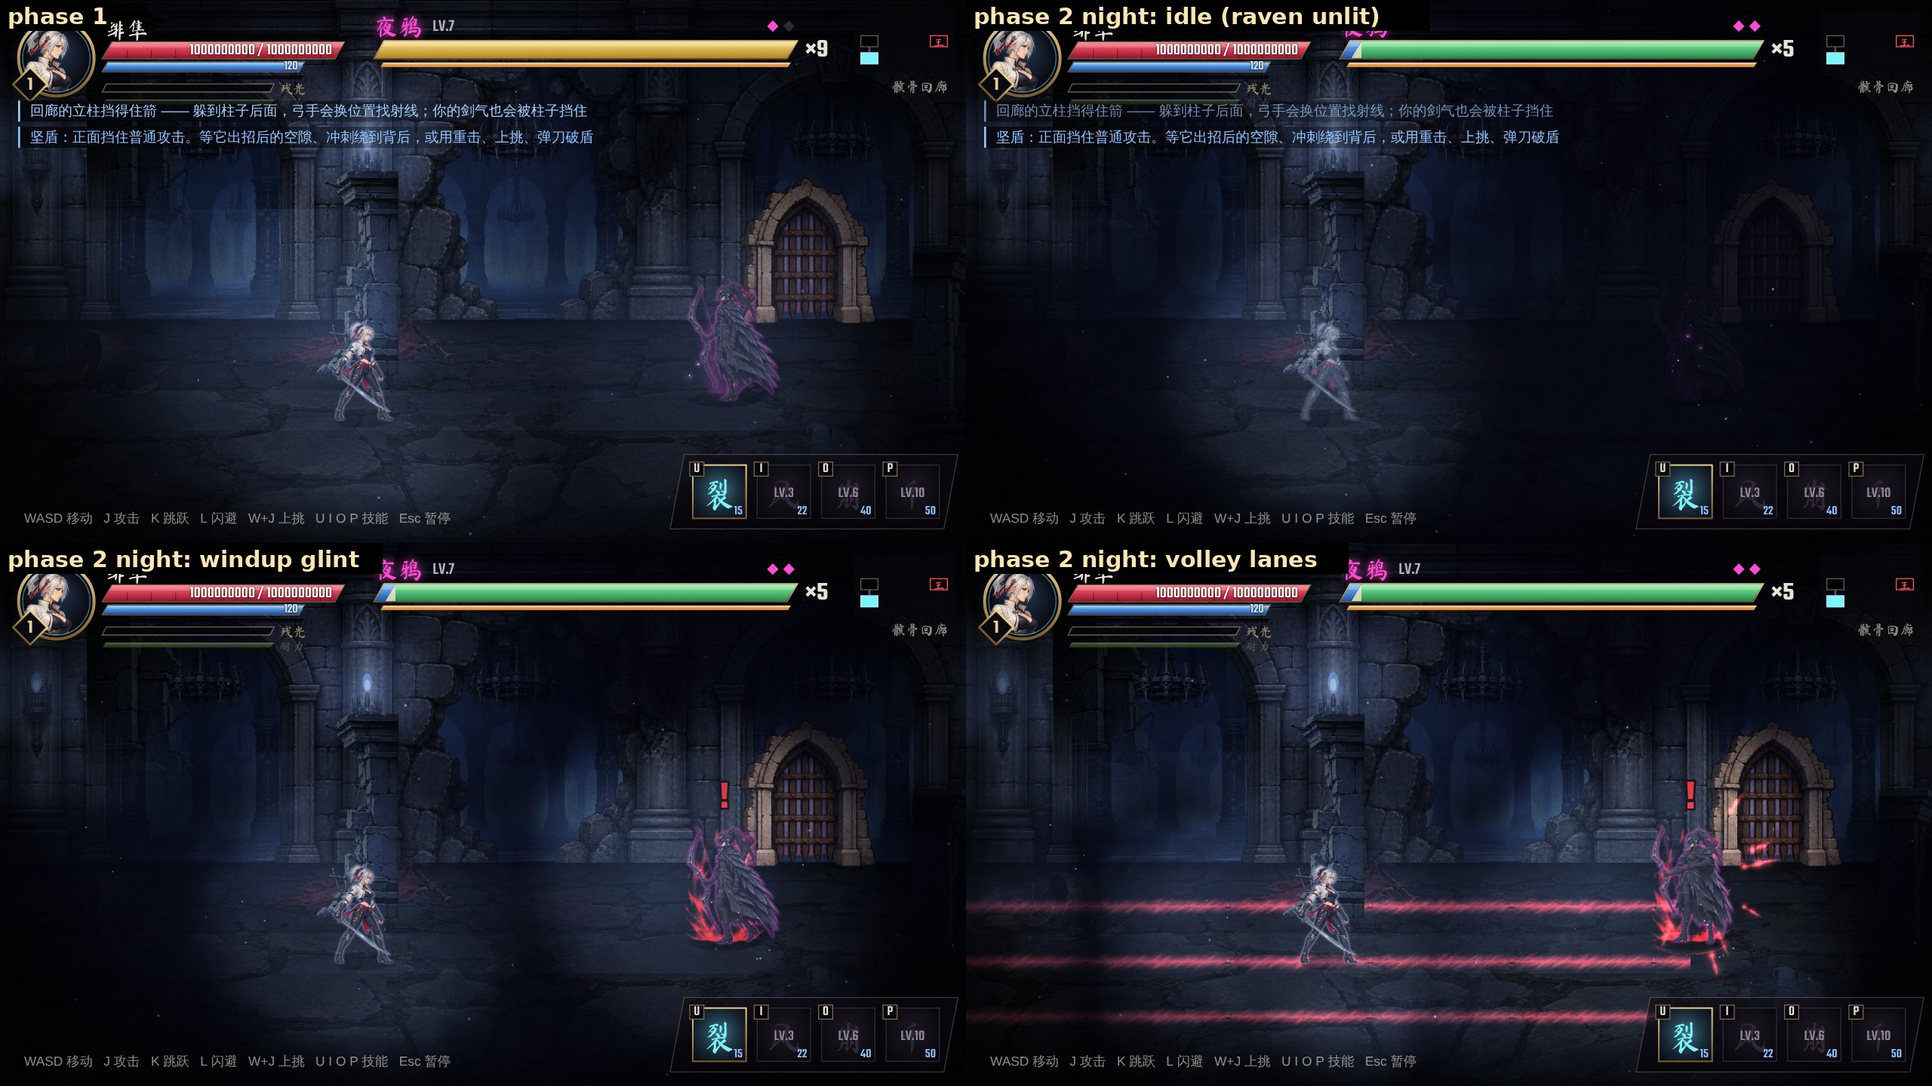
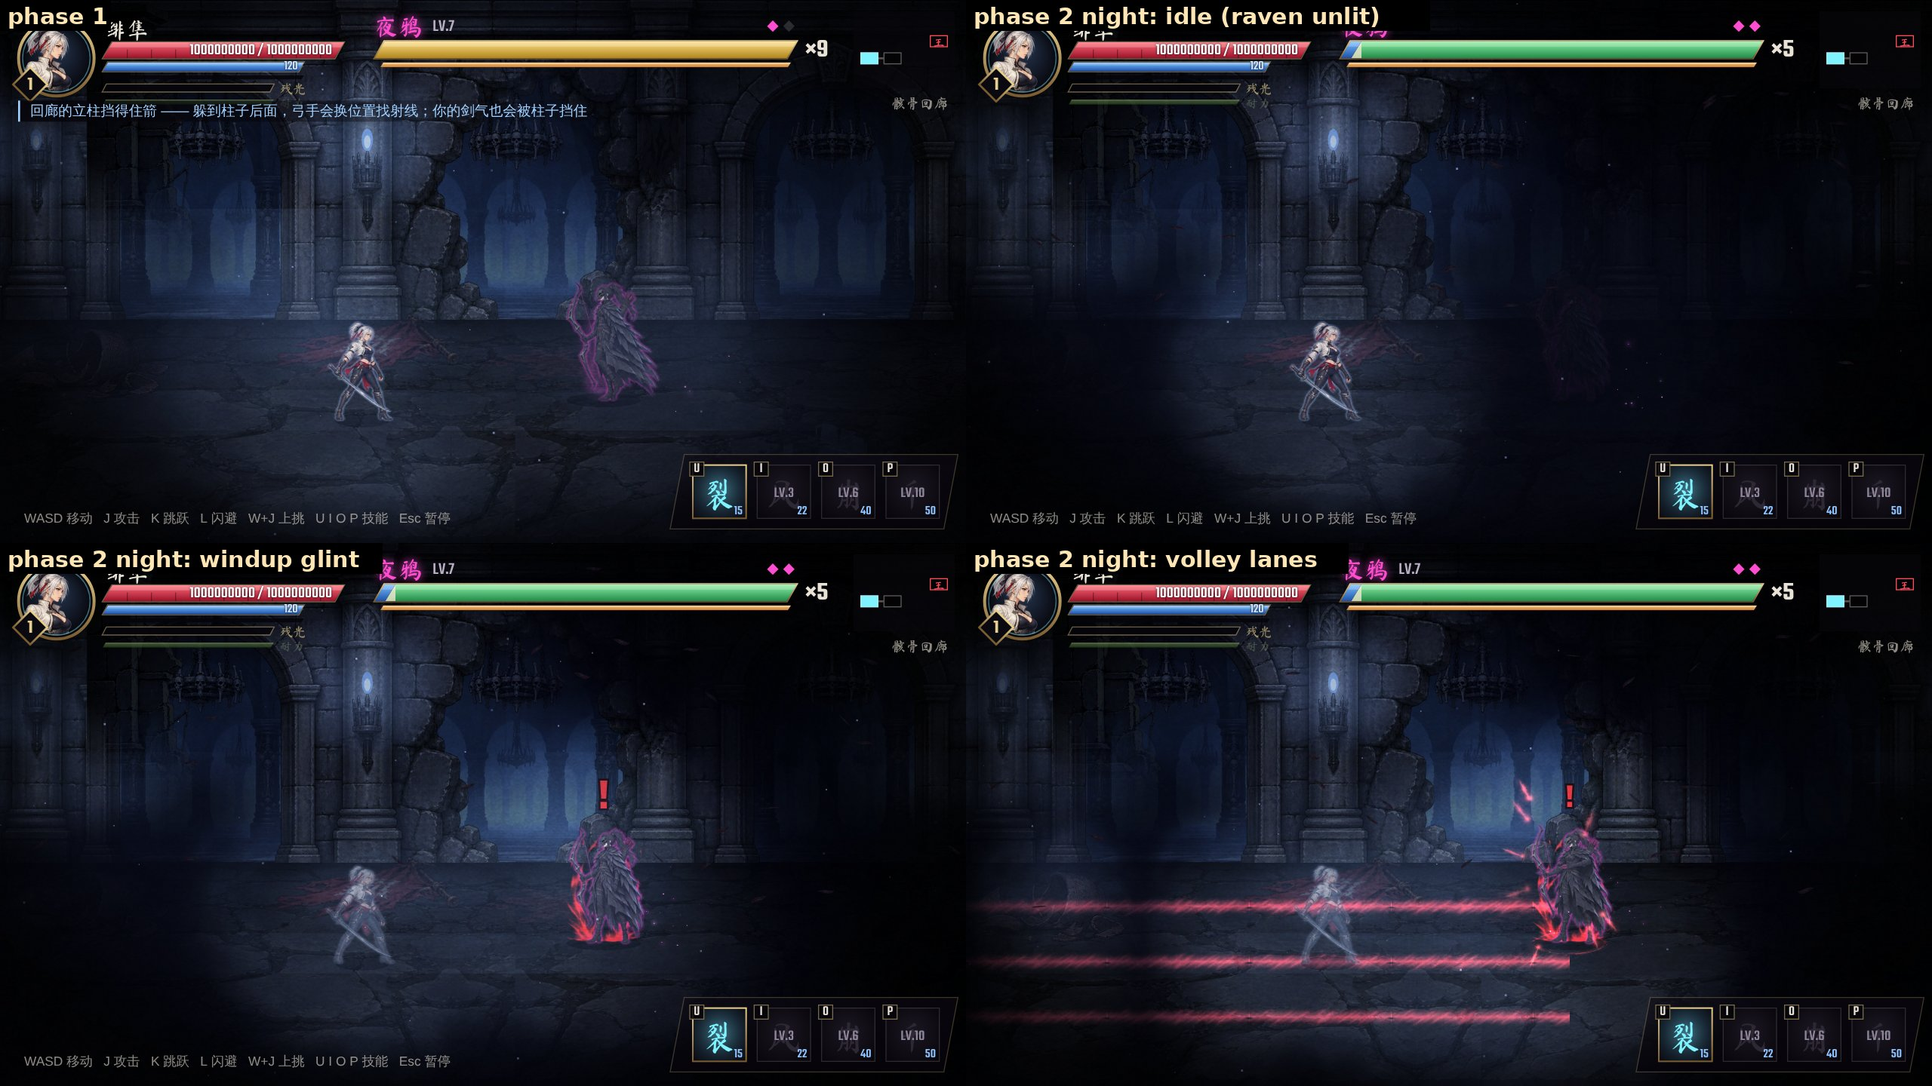
H-1（Codex 交付，终审通过）：build_fx.py --boss raven（校验画布 / 帧数、贴图和序列帧同一图集）、fx_art.js 按首领载入夜鸦包；打出真包 fx_boss_raven；夜鸦夜色测试补素材包的载入 / 释放、夜幕 / 黑羽；截图更新
Claude-Session: https://claude.ai/code/session_016hifdkBdBtKZpyLgvXjhcu

diff --git a/src/fx_art.js b/src/fx_art.js
@@ -3,7 +3,7 @@
 // 每套图集载入后切成一块块小画布（图集本身随后丢掉，内存不会翻倍）。每块记着：
 //   cx, cy —— 锚点在这块画布里的位置（素材裁掉了透明边，锚点按原画布换算过来）
 //   sc     —— 图集像素相对交付尺寸的比例（桌面贴图 1、手机 0.5；序列帧桌面 0.5、手机 0.25）
-// 贴图（fx_tex）和主角 / 通用序列帧（fx_hero）一直载入；首领的两套只在自己那一关载入、离开就释放。
+// 贴图（fx_tex）和主角 / 通用序列帧（fx_hero）一直载入；首领的特效只在自己那一关载入、离开就释放。
 // 素材没载好时：烟、碎片、地裂、冲击环、星芒照常用程序生成的占位贴图；光照包里的东西（光晕、火花、光照、暗角……）不画。
 import { afterBoot } from './boot.js';
 import { MOBILE } from './sprite.js';
@@ -32,18 +32,18 @@ class FxPack {
           im.src = `${DIR}${this.name}${v}.webp`;
         });
         if (!atlas || this.released) return;
-        const cut = (key) => {
+        const cut = (key, sc = meta.scale) => {
           const [x, y] = meta.pos[key], [w, h] = meta.dims[key];
           const c = document.createElement('canvas');
           c.width = w;
           c.height = h;
           c.getContext('2d').drawImage(atlas, x, y, w, h, 0, 0, w, h);
-          c.sc = meta.scale;
+          c.sc = sc;
           return c;
         };
         const items = {};
         for (const [id, t] of Object.entries(meta.tex || {})) {
-          const c = cut(id);
+          const c = cut(id, meta.texScale ?? meta.scale);
           c.cx = t.anchor[0] * t.full[0] - t.off[0];
           c.cy = t.anchor[1] * t.full[1] - t.off[1];
           c.add = t.blend === 'add';
@@ -87,6 +87,7 @@ export const FX_ART = {
   hero: new FxPack('fx_hero'),
   bone: new FxPack('fx_bone'),
   warden: new FxPack('fx_warden'),
+  raven: new FxPack('fx_boss_raven'),
   // 刀光包 fx_blade_v1（docs/ART_FX_BLADE_V1.md）：条带贴图（拖尾、新月刀光）+ 重画的五组刀光序列帧和剑气。一直载入
   bladeTex: new FxPack('fx_blade_tex'),
   blade: new FxPack('fx_blade'),
@@ -113,12 +114,20 @@ export const enemyFb = (id) => (FX_ART.enemy.ready && FX_ART.enemy.items[id]) ||
 afterBoot(() => { FX_ART.tex.load(); FX_ART.hero.load(); FX_ART.bladeTex.load(); FX_ART.blade.load(); FX_ART.enemyTex.load(); FX_ART.enemy.load(); }); // 大地图和主角先载（见 boot.js）
 
 // 首领专属特效：只载入这一关首领的那套，释放其他的（和首领图集一样，见 enemy_sprites.js 的 prepareBossSprites）
-const BOSS_FX = { boneLord: 'bone', warden: 'warden' };
+const BOSS_FX = { boneLord: 'bone', nightRaven: 'raven', warden: 'warden' };
 export function prepareBossFx(key) {
   for (const [k, name] of Object.entries(BOSS_FX)) {
     if (k === key) FX_ART[name].load();
     else if (FX_ART[name].ready || FX_ART[name].loading) FX_ART[name].release();
   }
+}
+
+// 首领特效包的一张贴图（混合图集里的序列帧用 flipbook 取）
+export function bossTex(packName, id) {
+  const pack = FX_ART[packName];
+  if (!pack?.ready || !Object.hasOwn(pack.items, id)) return null;
+  const item = pack.items[id];
+  return item.frames ? null : item;
 }
 
 // 敌人各自的特效：只载入这一关出现的敌人那几套，释放其他的（和 enemy_sprites.js 的 prepareEnemySprites 同一时机）。types 用敌人类型名
@@ -135,6 +144,6 @@ export const enemyTypeFb = (rig, id) => (FX_ART.enemyType[rig]?.ready && FX_ART.
 // 取一组序列帧（没载好返回 null）
 export function flipbook(id) {
   // 刀光包排在最前：它的五组刀光覆盖 fx_hero 里的旧组（fx_hero 打包时已经不含这几组）
-  for (const p of [FX_ART.blade, FX_ART.hero, FX_ART.bone, FX_ART.warden, FX_ART.enemy, ...Object.values(FX_ART.enemyType)]) if (p.ready && p.items[id]) return p.items[id];
+  for (const p of [FX_ART.blade, FX_ART.hero, FX_ART.bone, FX_ART.warden, FX_ART.raven, FX_ART.enemy, ...Object.values(FX_ART.enemyType)]) if (p.ready && p.items[id]?.frames) return p.items[id];
   return null;
 }

diff --git a/tests/ravennighttest.js b/tests/ravennighttest.js
@@ -42,10 +42,20 @@ let bad = 0; const ok = (c, m) => { console.log((c ? 'ok   ' : 'FAIL ') + m); if
     g.hazards = [];
     // 夜鸦死了（或回到第一阶段）：夜色退去
     bo.hp = 0; bo.setState('dying'); step(RN.NIGHT.ramp + 5); out.after = +(bo.night ?? 0).toFixed(2); out.ravenAfter = !!RN.nightRaven(g);
-    // 素材层：夜鸦素材包没载时不画（不出错）
-    const c = document.createElement('canvas').getContext('2d'); bo.night = 1; out.veilNoPack = RN.drawVeil(c, bo, 100, 100) === false; bo.night = 0;
-    // 渲染一帧不出错
+    // 素材层（fx_boss_raven，H-1）：第 2 关载入 → 夜幕画得出来、夜里飘黑羽；回第 1 关释放 → 不画、不出错
+    const { FX_ART } = await import('./src/fx_art.js');
+    for (let i = 0; i < 80 && !FX_ART.raven.ready; i++) await new Promise((r) => setTimeout(r, 100));
+    out.packLoaded = FX_ART.raven.ready && !!FX_ART.raven.items.night_veil && !!FX_ART.raven.items.feather_drift?.frames;
+    const c = document.createElement('canvas').getContext('2d'); bo.night = 1; bo.alive !== undefined;
+    out.veilDraws = RN.drawVeil(c, bo, 100, 100) === true;
+    bo.hp = bo.maxHp * 0.4; bo.setState('idle'); bo.night = 1; bo.drift = []; for (let i = 0; i < 60; i++) { RN.updateNight(bo, g); g.ticks++; } out.drift = bo.drift.length;
+    out.driftDraws = RN.drawDrift(c, bo, 0) === true;
+    bo.night = 0;
+    // 渲染一帧不出错（素材包载好、夜色满）
     bo.hp = bo.maxHp * 0.4; bo.setState('idle'); bo.night = 1; g.render(); out.render = true;
+    // 回第 1 关：夜鸦素材包释放
+    g.story.clear(); g.startStage(0, 0, false); g.story.clear(); out.released = !FX_ART.raven.ready;
+    const bo2 = { night: 1, drift: [{ x: 0, y: 0, t: 5, phase: 0, flip: 1 }] }; out.veilNoPack = RN.drawVeil(c, bo2, 100, 100) === false && RN.drawDrift(c, bo2, 0) === false;
     return out;
   });
   console.log(JSON.stringify(r));
@@ -57,7 +67,8 @@ let bad = 0; const ok = (c, m) => { console.log((c ? 'ok   ' : 'FAIL ') + m); if
   ok(r.splitParity, '鸦影分身：真身和两个分身的光完全一样（不泄露真身）');
   ok(r.laneLights >= 3, `地面光带夜里沿线补光（${r.laneLights} 盏）`);
   ok(r.after === 0 && !r.ravenAfter, '夜鸦死了：夜色退去');
-  ok(r.veilNoPack && r.render, '夜鸦素材包没载：夜幕层不画，渲染不出错');
+  ok(r.packLoaded && r.veilDraws && r.drift > 0 && r.driftDraws && r.render, `夜鸦素材包载入：夜幕画出来、夜里飘黑羽（${r.drift} 片），渲染不出错`);
+  ok(r.released && r.veilNoPack, '回第 1 关：夜鸦素材包释放，夜幕 / 黑羽不画、不出错');
   ok(!errs.length, 'PAGE ERRORS ' + (errs.join(' | ') || 'none'));
   console.log(bad ? `RAVENNIGHTTEST FAIL ${bad}` : 'RAVENNIGHTTEST ok');
   await b.close();

diff --git a/tools/build_fx.py b/tools/build_fx.py
@@ -2,6 +2,7 @@
 
 python3 -I tools/build_fx.py <fx_textures_v1 目录> <fx_hero_v1 目录> <fx_boss_v1 目录> [fx_blade_v1 目录] [fx_light_v1 目录]
 python3 -I tools/build_fx.py --enemy <fx_enemy_v1_common 目录> [fx_enemy_v1_types 目录]   （只打敌人特效包，不动别的图集）
+python3 -I tools/build_fx.py --boss raven <fx_boss_raven_v1 目录>   （只打夜鸦特效包，不动别的图集）
 
 输出到 assets/fx/（每套两份：桌面 <名字>.webp/json，手机 <名字>_m.webp/json）：
   fx_tex     FX-1 单张贴图。桌面原尺寸，手机 50%，裁掉透明边（记下原画布尺寸和偏移）。碎片图按 docs/chip_regions.json 切成 16 块单独的碎片
@@ -17,14 +18,15 @@ python3 -I tools/build_fx.py --enemy <fx_enemy_v1_common 目录> [fx_enemy_v1_ty
   fx_enemy_<敌人>  敌人特效包第 2 批 fx_enemy_v1_types：五种杂兵各自的预警 / 出招 / 命中 / 死亡序列帧，每种敌人一套
              （grunt、brute、archer、priest、wing），按关卡里出现的敌人载入。第 2 批唯一的贴图 ember_trail 并进 fx_enemy_tex（一直载入）
              第 2 批的 zip 多一层顶层目录 fx_enemy_v1_types/，传那一层；fx.json 只列了单帧，没写总图路径，所以直接用单帧（不读 sheets/）
+  fx_boss_raven  夜鸦专属贴图与序列帧共用图集，只在第 2 关载入；night_veil 保留整张画布
 序列帧：桌面存交付尺寸的 50%、手机 25%（docs/ART_FX.md 第二节）；每帧裁掉透明边再打包，记下裁切偏移，锚点不变。
 JSON 里的坐标都是「图集像素」：pos 每块的左上角，dims 每块的宽高；scale 是图集像素相对交付尺寸的比例，引擎用它换算成游戏里的大小。
 """
 import json, os, sys
+from pathlib import Path
 import numpy as np
 from PIL import Image
 
-TEX, HERO, BOSS = sys.argv[1:4] if sys.argv[1] != "--enemy" else (None,) * 3
 # 敌人特效的序列帧：地面预警圈在游戏里画得比交付尺寸的一半大（rx 115 → 宽约 240 逻辑像素），按 50% 存会被放大发糊，
 # 所以桌面存 60%、手机 30%（只多约 40% 像素）
 ENEMY_FB_SCALE = (0.6, 0.3)
@@ -35,8 +37,6 @@ ENEMY_TYPES = {
     "priest": ["lantern_flare", "rune_shatter", "candle_smoke"],
     "wing": ["ember_crack", "ember_pop", "ash_fall"],
 }
-BLADE = sys.argv[4] if len(sys.argv) > 4 else None
-LIGHT = sys.argv[5] if len(sys.argv) > 5 else None
 OUT = os.path.join(os.path.dirname(__file__), "..", "assets", "fx")
 os.makedirs(OUT, exist_ok=True)
 GROUPS = {"fx_hero": None, "fx_bone": ["bone_spikes", "bone_rend"], "fx_warden": ["soul_fire", "summon_circle"]}
@@ -79,55 +79,134 @@ def save_atlas(name, items, width, meta):
     print(f"{name}: {width}×{h}，解码 {width * h * 4 / 2**20:.1f}MB，文件 {kb:.0f}KB，{len(items)} 块")
 
 
+def collect_textures(root, m, sc, keep_full=(), opaque=()):
+    """root 可以是目录或 {贴图 id: 目录}。keep_full 保留整张，opaque 里的常数 alpha 单独记下。"""
+    items, tex = [], {}
+    for t in m["textures"]:
+        im = Image.open(f"{root[t['id']] if isinstance(root, dict) else root}/{t['file']}").convert("RGBA")
+        extra = {}
+        if t["id"] in opaque:
+            a = np.asarray(im)[..., 3]
+            assert a.min() == a.max(), f"{t['id']} 的 alpha 不是常数"
+            extra["alpha"] = int(a[0, 0])
+            # 画布的预乘 alpha 会压掉暗部灰度，存成不透明才能保留颗粒的细节
+            im = Image.fromarray(np.dstack([np.asarray(im)[..., :3], np.full(a.shape, 255, np.uint8)]))
+        if sc != 1:
+            im = im.resize((round(im.width * sc), round(im.height * sc)), Image.LANCZOS)
+        cut, (ox, oy) = (im, (0, 0)) if t["id"] in keep_full else trim(im)
+        items.append((t["id"], cut))
+        tex[t["id"]] = {"blend": t["blend"], "anchor": t["anchor"], "full": [im.width, im.height], "off": [ox, oy], **extra}
+    return items, tex
+
+
 def build_textures(name, root, m, keep_full=(), opaque=()):
-    """root 可以是一个目录，也可以是 {贴图 id: 目录}（几个包的贴图打进同一张图集）"""
-    """单张贴图：桌面原尺寸、手机 50%；keep_full 里的不裁透明边（刀光条带：引擎按整条的 UV 铺）。
-    opaque 里的（整张 alpha 是同一个值的，比如颗粒 grain）存成不透明、JSON 里记下原来的 alpha：
-    浏览器的画布按「预乘 alpha」存像素，alpha 24 的灰度起伏会被压成三四档，存成不透明才不丢细节"""
+    """单张贴图：桌面原尺寸、手机 50%。"""
     for suffix, sc in (("", 1.0), ("_m", 0.5)):
-        items, tex = [], {}
-        for t in m["textures"]:
-            im = Image.open(f"{root[t['id']] if isinstance(root, dict) else root}/{t['file']}").convert("RGBA")
-            extra = {}
-            if t["id"] in opaque:
-                a = np.asarray(im)[..., 3]
-                assert a.min() == a.max(), f"{t['id']} 的 alpha 不是常数"
-                extra["alpha"] = int(a[0, 0])
-                im = Image.fromarray(np.dstack([np.asarray(im)[..., :3], np.full(a.shape, 255, np.uint8)]))
-            if sc != 1:
-                im = im.resize((round(im.width * sc), round(im.height * sc)), Image.LANCZOS)
-            if t["id"] in keep_full:
-                cut, (ox, oy) = im, (0, 0)
-            else:
-                cut, (ox, oy) = trim(im)
-            items.append((t["id"], cut))
-            tex[t["id"]] = {"blend": t["blend"], "anchor": t["anchor"], "full": [im.width, im.height], "off": [ox, oy], **extra}
+        items, tex = collect_textures(root, m, sc, keep_full, opaque)
         save_atlas(f"{name}{suffix}", items, 2048 if not suffix else 1024, {"scale": sc, "tex": tex})
+
+
+def collect_flipbooks(ids, fbs, sc):
+    items, meta = [], {}
+    for fid in ids:
+        root, f = fbs[fid]
+        W, H = round(f["w"] * sc), round(f["h"] * sc)
+        frames = []
+        for i, fn in enumerate(f["frames"]):
+            im = Image.open(f"{root}/{fn}").convert("RGBA").resize((W, H), Image.LANCZOS)
+            cut, (ox, oy) = trim(im)
+            if cut is None:
+                frames.append(None)  # 完全透明的帧：引擎照常计时，不画
+                continue
+            key = f"{fid}_{i:02d}"
+            items.append((key, cut))
+            frames.append([key, ox, oy, cut.width, cut.height])
+        meta[fid] = {"w": W, "h": H, "anchor": f["anchor"], "fps": f.get("fps", 30), "loop": bool(f.get("loop")), "blend": f["blend"], "frames": frames}
+    return items, meta
 
 
 def build_flipbooks(name, ids, fbs, scales=(0.5, 0.25)):
     """序列帧：默认桌面交付尺寸 50%、手机 25%，每帧裁透明边"""
     for suffix, sc in (("", scales[0]), ("_m", scales[1])):
-        items, meta = [], {}
-        for fid in ids:
-            root, f = fbs[fid]
-            W, H = round(f["w"] * sc), round(f["h"] * sc)
-            frames = []
-            for i, fn in enumerate(f["frames"]):
-                im = Image.open(f"{root}/{fn}").convert("RGBA").resize((W, H), Image.LANCZOS)
-                cut, (ox, oy) = trim(im)
-                if cut is None:
-                    frames.append(None)  # 完全透明的帧：引擎照常计时，不画
-                    continue
-                key = f"{fid}_{i:02d}"
-                items.append((key, cut))
-                frames.append([key, ox, oy, cut.width, cut.height])
-            meta[fid] = {"w": W, "h": H, "anchor": f["anchor"], "fps": f.get("fps", 30), "loop": bool(f.get("loop")), "blend": f["blend"], "frames": frames}
+        items, meta = collect_flipbooks(ids, fbs, sc)
         save_atlas(f"{name}{suffix}", items, 2048 if not suffix else 1024, {"scale": sc, "fb": meta})
 
 
+# 夜鸦交付画布和帧数（docs/ART_FX_BOSS_RAVEN_V1.md 第三节）
+RAVEN_TEXTURES = {
+    "feather_trail": (256, 64), "raven_arrow": (128, 32),
+    "raven_sigil": (512, 256), "night_veil": (1024, 512),
+}
+RAVEN_FLIPBOOKS = {
+    "feather_blade_spin": (128, 128, 8), "feather_burst": (256, 256, 8),
+    "raven_appear": (256, 384, 8), "split_wisps": (256, 384, 8),
+    "feather_drift": (64, 64, 8), "bow_glint": (128, 128, 6),
+    "arrow_rain": (128, 384, 6), "rain_impact": (192, 96, 6),
+    "channel_gather": (256, 384, 8), "raven_death": (384, 384, 10),
+}
+
+
+def validate_raven(root, m):
+    if m.get("schema") != "afterglow.fxpack.v1":
+        raise ValueError("fx.json 的 schema 应为 afterglow.fxpack.v1")
+    for group, spec in (("textures", RAVEN_TEXTURES), ("flipbooks", RAVEN_FLIPBOOKS)):
+        entries = m[group]
+        ids = [t["id"] for t in entries]
+        found = set(ids)
+        missing, extra = sorted(spec.keys() - found), sorted(found - spec.keys())
+        repeats = len(ids) - len(found)
+        if missing or extra or repeats:
+            raise ValueError(f"{group} 的 id 与夜鸦规格不符（缺少 {missing}，多出 {extra}，重复 {repeats} 项）")
+        for item in entries:
+            ident = item["id"]
+            w, h, *count = spec[ident]
+            if (item["w"], item["h"]) != (w, h):
+                raise ValueError(f"{ident}: fx.json 画布 {item['w']}×{item['h']}，规格应为 {w}×{h}")
+            files = item["frames"] if count else [item["file"]]
+            if count and (not isinstance(files, list) or len(files) != count[0]):
+                actual = len(files) if isinstance(files, list) else "不是列表"
+                raise ValueError(f"{ident}: fx.json 帧数 {actual}，规格应为 {count[0]}")
+            for file in files:
+                with Image.open(root / file) as im:
+                    if im.size != (w, h):
+                        raise ValueError(f"{ident}: {file} 画布 {im.width}×{im.height}，fx.json 应为 {w}×{h}")
+                    im.verify()
+
+
+def build_raven(root):
+    # 兼容解压后平铺的包，以及工具自动加了一层顶层目录的包
+    root = Path(root)
+    if not (root / "fx.json").is_file():
+        choices = sorted(p.parent for p in root.glob("*/fx.json") if p.is_file())
+        if len(choices) != 1:
+            raise ValueError(f"{root}: 根目录没有 fx.json，一级子目录中找到 {len(choices)} 份（需要恰好 1 份）")
+        root = choices[0]
+    with (root / "fx.json").open(encoding="utf-8") as manifest:
+        m = json.load(manifest)
+    validate_raven(root, m)
+    fbs = {f["id"]: (root, f) for f in m["flipbooks"]}
+    for suffix, sc, width in (("", 0.5, 2048), ("_m", 0.25, 1024)):
+        tex_scale = sc * 2
+        textures, tex = collect_textures(root, m, tex_scale, keep_full={"night_veil"})
+        frames, fb = collect_flipbooks(fbs, fbs, sc)
+        # 混合图集里 scale 仍表示序列帧的比例，贴图用 texScale
+        save_atlas(f"fx_boss_raven{suffix}", textures + frames, width,
+                   {"scale": sc, "texScale": tex_scale, "tex": tex, "fb": fb})
+
+
+# ---------- 夜鸦特效包（单独打，不需要别的包）----------
+if sys.argv[1:2] == ["--boss"]:
+    if len(sys.argv) != 4 or sys.argv[2] != "raven":
+        sys.exit("用法：python3 -I tools/build_fx.py --boss raven <fx_boss_raven_v1 目录>")
+    try:
+        build_raven(sys.argv[3])
+    except (KeyError, TypeError, ValueError, OSError, SyntaxError) as exc:
+        sys.exit(f"夜鸦特效包构建失败：{exc}")
+    sys.exit(0)
+
+
 # ---------- 敌人特效包 fx_enemy_v1（单独打，不需要别的包）----------
-if sys.argv[1] == "--enemy":
+if sys.argv[1:2] == ["--enemy"]:
     COMMON, TYPES = sys.argv[2], (sys.argv[3] if len(sys.argv) > 3 else None)
     em = json.load(open(f"{COMMON}/fx.json"))
     tm = json.load(open(f"{TYPES}/fx.json")) if TYPES else {"textures": [], "flipbooks": []}
@@ -145,6 +224,9 @@ if sys.argv[1] == "--enemy":
     sys.exit(0)
 
 # ---------- FX-1 单张贴图 ----------
+TEX, HERO, BOSS = sys.argv[1:4]
+BLADE = sys.argv[4] if len(sys.argv) > 4 else None
+LIGHT = sys.argv[5] if len(sys.argv) > 5 else None
 m = json.load(open(f"{TEX}/fx.json"))
 chips = json.load(open(f"{TEX}/docs/chip_regions.json"))
 for suffix, sc in (("", 1.0), ("_m", 0.5)):

diff --git a/assets/fx/ATTRIBUTION.md b/assets/fx/ATTRIBUTION.md
@@ -6,3 +6,5 @@
   由 `tools/build_fx.py --enemy <fx_enemy_v1_common>` 处理成 `fx_enemy_tex`（贴图：桌面原尺寸 / 手机 50%，可平铺的两张不裁边）和 `fx_enemy`（序列帧：桌面 60% / 手机 30%，地面预警圈画得大，比别的序列帧多存一点）
 - 敌人特效第 2 批（贴图 1 张、序列帧 15 组 100 帧：五种杂兵的预警 / 出招 / 命中 / 死亡）：项目作者提供（GitHub Release `assets-v8`：`fx_enemy_v1_types.zip`，sha256 `684fdd33…dfd7e7`）。原创手绘设计；并非任何现有游戏的特效或提取素材。
   由 `tools/build_fx.py --enemy <fx_enemy_v1_common> <fx_enemy_v1_types>` 处理成每种敌人一套 `fx_enemy_<grunt|brute|archer|priest|wing>`（桌面 50% / 手机 25%，按关卡里有的敌人载入），贴图 `ember_trail` 并进 `fx_enemy_tex`
+- 首领「夜鸦」专属特效（贴图 4 张、序列帧 10 组 76 帧）：项目作者提供（GitHub Release `assets-v8`：`fx_boss_raven_v1.zip`，sha256 `4c6fadb5…`，规格 `docs/ART_FX_BOSS_RAVEN_V1.md`）。原创手绘设计；并非任何现有游戏的特效或提取素材。
+  由 `tools/build_fx.py --boss raven <fx_boss_raven_v1>` 处理成 `fx_boss_raven`（贴图和序列帧同一套图集：贴图桌面原尺寸 / 手机 50%、`night_veil` 不裁边；序列帧桌面 50% / 手机 25%），只在夜鸦那一关载入
